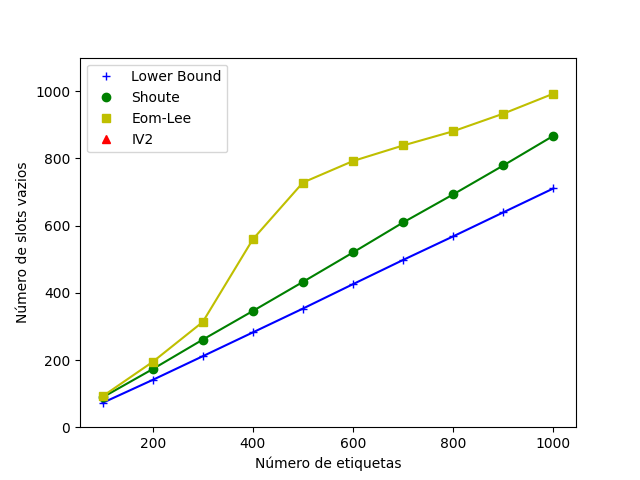
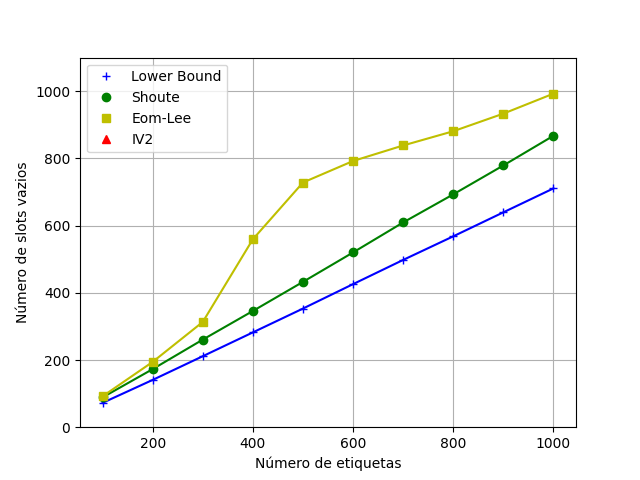
small changes

diff --git a/plots/main.py b/plots/main.py
@@ -17,6 +17,7 @@ plots_path = args[2]
 df = pd.read_csv(results_path)
 
 def save_and_clf(path):
+    plt.grid(True)
     plt.savefig(path)
     plt.close()
 
@@ -91,7 +92,7 @@ def plot_total_time(df):
     ax = plt.gca()
     ax.legend(list(zip(list_color,list_mak)), list_lab, handler_map={tuple:MarkerHandler()})
     ax.set_xlabel("Número de etiquetas")
-    ax.set_ylabel("Tempo para identificação")
+    ax.set_ylabel("Tempo para identificação (em ns)")
     save_and_clf(os.path.join(plots_path, "total_time.png"))
 
 plot_total_slots(df)

diff --git a/README.md b/README.md
@@ -1,7 +1,9 @@
 Esse é um simulador para avaliação de desempenho de estimadores DFSA para cadeira de Sistemas de Comunicação
 
+## Requisitos para rodar esse programa:
+- CMake, python3
+
 ## Todos:
-- [ ] Colocar grid nos gráficos
 - [ ] Checar implementação do Eom-Lee
 - [ ] Implementar IV2
 
